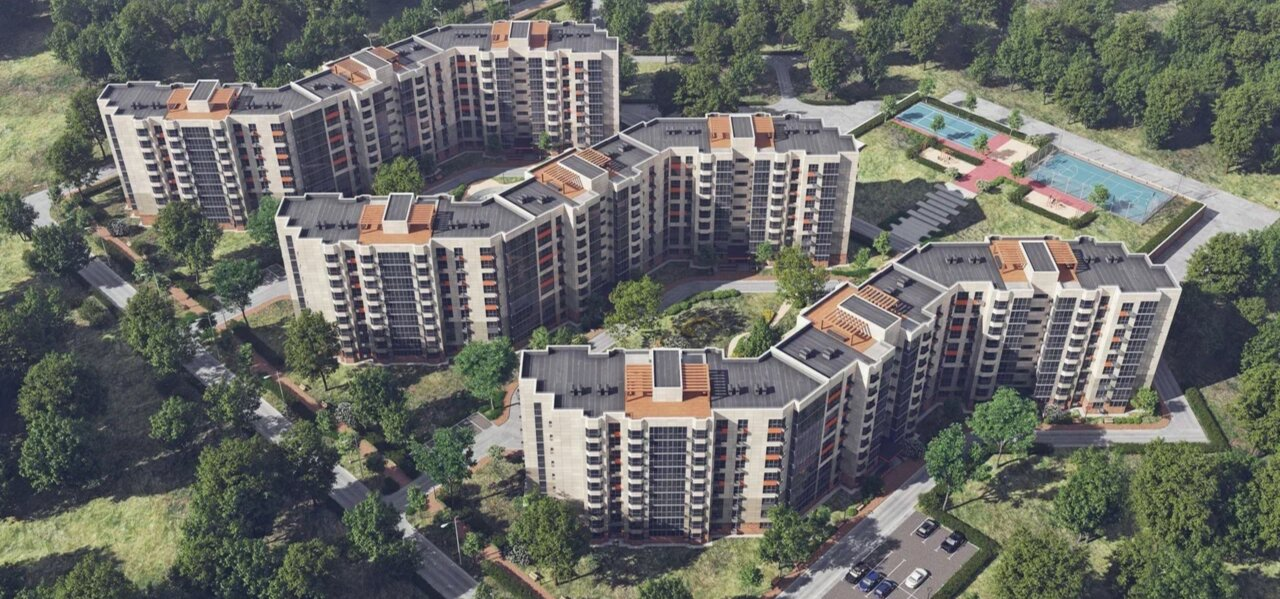
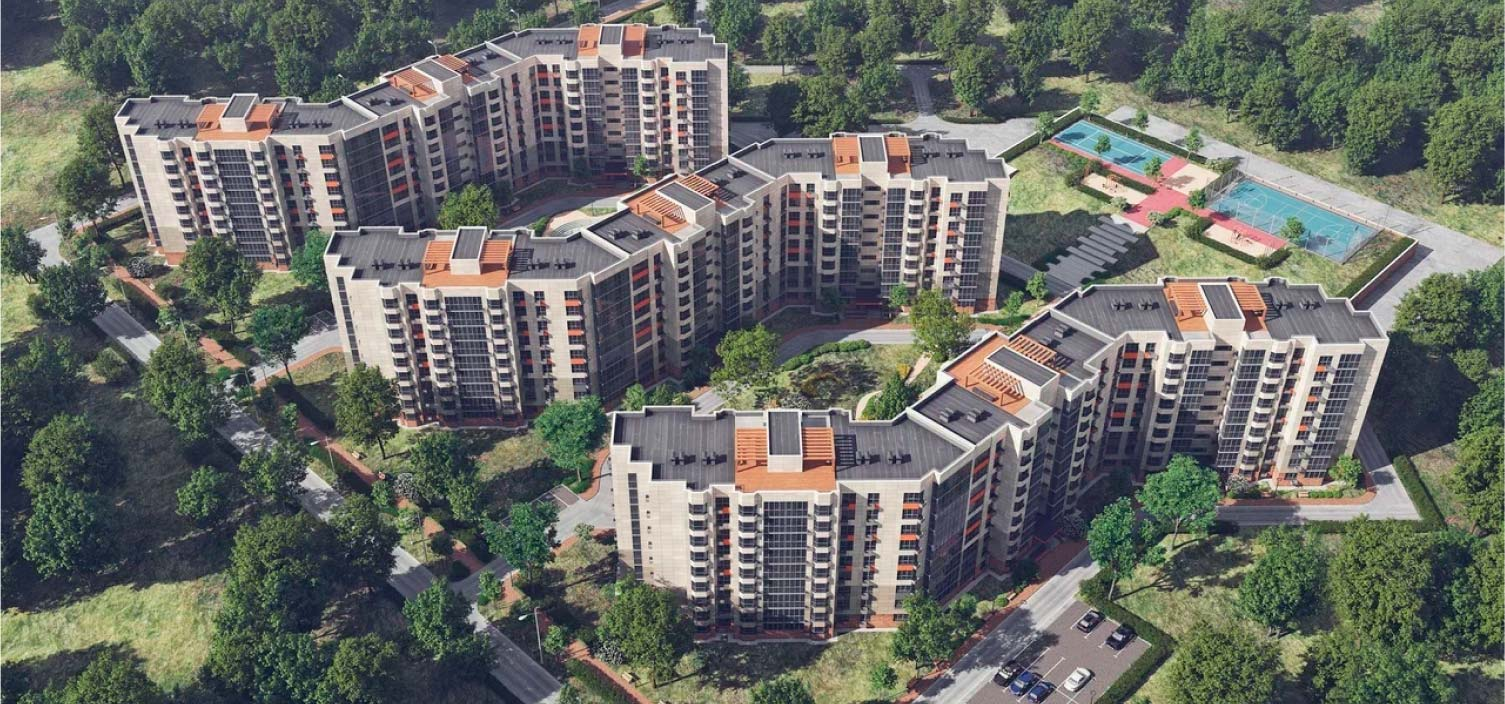
frontend liter selections added

diff --git a/frontend/src/sections/plans.js b/frontend/src/sections/plans.js
@@ -1,9 +1,98 @@
 import React, { useEffect, useState } from "react"
 import { Modal } from "../components/modals"
 import { Link } from "react-router-dom";
+import Konva from "konva"
+import "./plans.css"
+var stage
+var layer
+
 
 export const Plans = () => {
   const [isOpen, setModalState] = useState(false)
+  const [hovered, setHovered] = useState(false)
+  const paths = [
+		{
+			name: 'paths_plan1',
+			liter: 3,
+			path: 'M1390.09 339.381L1343.58 476.001V483.327H1334.72L1326.38 490.257H1272.24L1268.56 482.028L1259.03 483.327L1248.2 491.773H1226.11V480.945L1132.7 485.767L1125.75 467.016H1115.18L1108.23 476.058L1103.67 476.725L1078.4 498.465L1077.39 503.106L1075.07 506.731L1081.88 512.097L1008.1 578.445L1005.64 577.44L1000.72 581.798L989.474 572.728L918.39 631.474H855.945L825.367 644.831H811.638L806.972 642.102H759.658L756.726 644.831H740.047L736.913 642.102H727.706V634.852H720.835L716.111 639.79L708.811 643.655H692.064V618.749L687.038 617.89V611.496L682.759 588.339H644.248L617.777 581.543V553.014L610.154 446.764L614.305 410.772H642.205V404.717H694.845V415.549H716.154V410.791H720.355L721.773 408.412H733.92L735.866 410.511H828.106L832.458 407.679L840.318 407.933L843.361 409.784H851.162V421.532H891.273L951.553 379.538L939.038 370.375L996.821 330.682L1009.67 338.358L1075.93 289.583L1081.18 294.611L1092.69 284.852H1161.14V279.612L1166.28 276.678H1174.38L1178.26 279.612H1225.53L1229.49 276.678H1236.02L1240.72 277.852L1246.73 282.766H1268.66V279.612L1272.11 276.678H1277.68L1284.14 277.852L1290.09 283.94H1319.66L1327.93 298.313L1347.75 297.322L1355.68 310.373H1371.38L1390.09 339.381Z',
+		},
+		{
+			name: 'paths_plan2',
+			liter: 1,
+			path: 'M727.672 167.187V43.8598L714.699 43.4685V35.0264H700.931V27.7254H678.722V24.1232H667.423L661.708 26.9489H647.557L641.718 24.1232H633.956H594.986L588.419 23.1471L579.989 27.7254H528.501L515.957 33.6284L513.375 31.4148L452.685 56.1336L448.995 53.551L442.539 56.1336L436.82 53.551L393.655 71.0756H389.412L378.713 78.4543L381.295 82.6971L329.644 102.62H300.867L302.712 97.2701H265.634L261.391 100.406L258.255 93.0273H233.536L230.769 97.2701H216.38H205.866L200.516 100.406H186.128L187.972 94.6875H151.632L149.787 98.3769L128.204 97.2701L113.816 117.746L150.92 238.162L148.289 245.304L156.934 247.935V256.204H165.203L167.083 265.226H179.111L188.884 269.401L252.442 267.701L260 262H319.5L333.5 229H356L357.5 224.5H403L397 232H415L417 227H438L481.709 198.21L498.686 208.578L509.619 207.052L518.263 200.442L513.941 194.34L547.247 178.323H568.348V182.472L583.603 186.204L601.41 174.308H635.959L649.507 184.036L680.426 182.472L727.672 167.187Z',
+		},
+		{
+			name: 'paths_plan3',
+			liter: 2,
+			path: 'M349.147 383.5L322.647 254.5L333.147 229H356.147L357.647 224.5H402.647L397.147 232H415.147L417.147 227H433.147L436.147 229H455.147L458.147 224H485.647L486.647 232L488.147 229H532.647V235.5H564.647L615.647 209.5V199L675.647 170.5L683.647 175.5L753.647 139L759.647 142L768.647 136H827.147L830.147 131L897.147 129.5L905.647 133.5L918.647 133L923.147 131L931.647 129L938.647 131L942.647 134.5H966.147L969.647 144.5H984.647L988.147 155H1001.65L1004.65 161L1018.15 168L1009.65 177.5L992.647 310.5H974.647L969.647 313L899.147 310.5L885.147 318H849.147L837.647 321L811.147 318L807.147 310.5H790.647L674.647 378.5L665.647 375.5L596.647 403.5H551.647L539.147 417H527.147L524.147 426L509.147 429L502.147 426H455.647H441.147L435.647 417L416.147 426H396.147V417L372.647 414.5L349.147 383.5Z',
+		},
+	]
+
+  useEffect(() => {
+		var stageWidth = 1500;
+		var stageHeight = 704;
+		stage = new Konva.Stage({
+			container: 'paths_plan',
+			width: stageWidth,
+			height: stageHeight,
+		});
+		layer = new Konva.Layer();
+		stage.add(layer)
+		paths.map((el) => {
+			var path = new Konva.Path({
+				opacity: 0.7,
+				data: el.path,
+				fill: hovered == el.liter ? el.condition == 2 ? 'yellow' : '#0CA5E6' : 'transparent',
+				scaleX: 1,
+				scaleY: 1
+			});
+			path.on('mouseenter', function (e) {
+				var fill = el.condition == 2 ? 'green' : '#0CA5E6';
+				this.fill(fill);
+				layer.draw();
+				setHovered(el.liter)
+				const container = e.target.getStage().container();
+				container.style.cursor = "pointer"
+			})
+			path.on('mouseleave', function (e) {
+				var fill = 'transparent';
+				this.fill(fill);
+				layer.draw();
+				setHovered(false)
+				const container = e.target.getStage().container();
+				container.style.cursor = "default"
+			})
+			path.on('click', function () {
+				const liter = el.liter
+			})
+			path.on('touchstart', function () {
+				const liter = el.liter
+				
+			})
+			layer.add(path)
+		})
+		layer.draw()
+
+		function fitStageIntoParentContainer() {
+			var container = document.querySelector('#paths_plan');
+			var containerWidth = container.offsetWidth;
+      console.log(containerWidth)
+			var scale = containerWidth / stageWidth;
+			stage.width(stageWidth * scale);
+			stage.height(stageHeight * scale);
+			stage.scale({ x: scale, y: scale });
+			stage.draw();
+		}
+
+		fitStageIntoParentContainer();
+    setTimeout(()=>{
+      fitStageIntoParentContainer();
+    },500)
+		// adapt the stage on any window resize
+		window.addEventListener('resize', fitStageIntoParentContainer);
+	})
+
+
 
   return (
     <React.Fragment>
@@ -13,7 +102,9 @@ export const Plans = () => {
           <div className="text">Выберите дом и этаж, чтобы посмотреть планировки и узнать цены. Передвигайтесь влево-вправо, ввех и вниз</div>
           <div className="b-3d" onClick={() => setModalState(true)}>
             <img src="img/home3d.jpg" alt="" />
+            <div id="paths_plan"></div>
           </div>
+          
           <div className="b-link-row">
             <Link to="/plans" className="lnk-params js-open-modal-flat">
               <span className="lnk-params__ico">

diff --git a/frontend/src/scss/components/_main.scss b/frontend/src/scss/components/_main.scss
@@ -15,7 +15,7 @@
   .slide-text {
     padding: 0 25px;
     width: 50%;
-    max-width: 428px;
+    max-width: 528px;
     @include qlg {
       width: 100%;
       padding-bottom: 40px;
@@ -23,7 +23,7 @@
     }
 
     .title {
-      font-size: 64px;
+      font-size: 40px;
       font-weight: 500;
       padding-top: 80px;
       text-transform: uppercase;
@@ -868,6 +868,15 @@
     margin-bottom: 80px;
     @include qmd {
       margin-bottom: 24px;
+    }
+  }
+}
+.svg-house-3d {
+  .section-house {
+    cursor: pointer;
+    fill: rgba(255,255,255, 0);
+    &:hover {
+      fill: #0CA5E6
     }
   }
 }

diff --git a/frontend/src/sections/plans.css b/frontend/src/sections/plans.css
@@ -1,0 +1,11 @@
+.b-3d{
+    position: relative;
+}
+#paths_plan{
+    display: block;
+    position: absolute;
+    z-index: 6;
+    width: 100%;
+    left: 0;
+    top: 0;
+}
